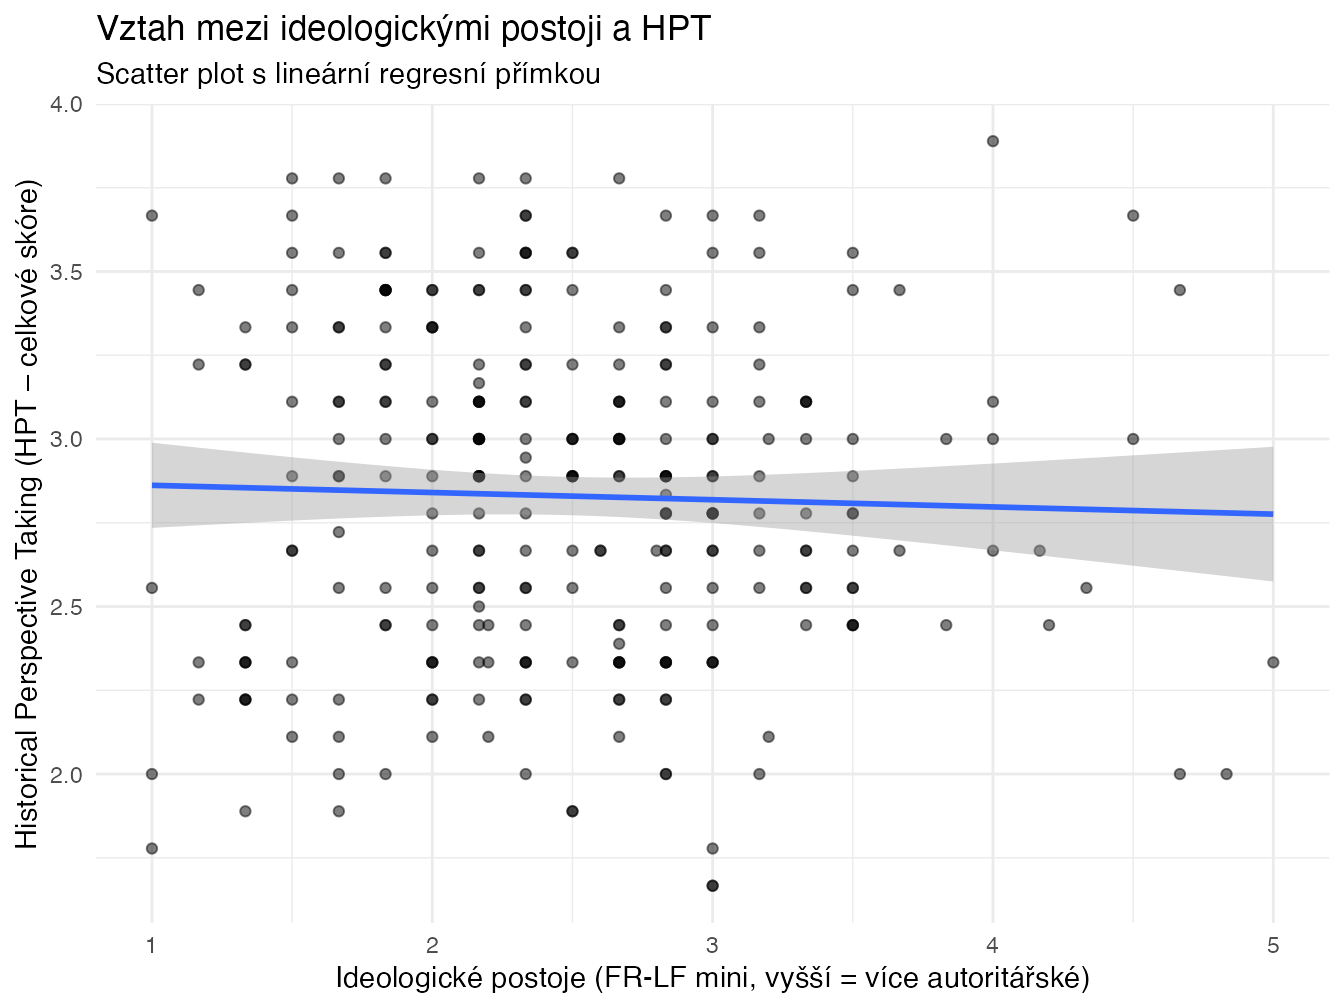
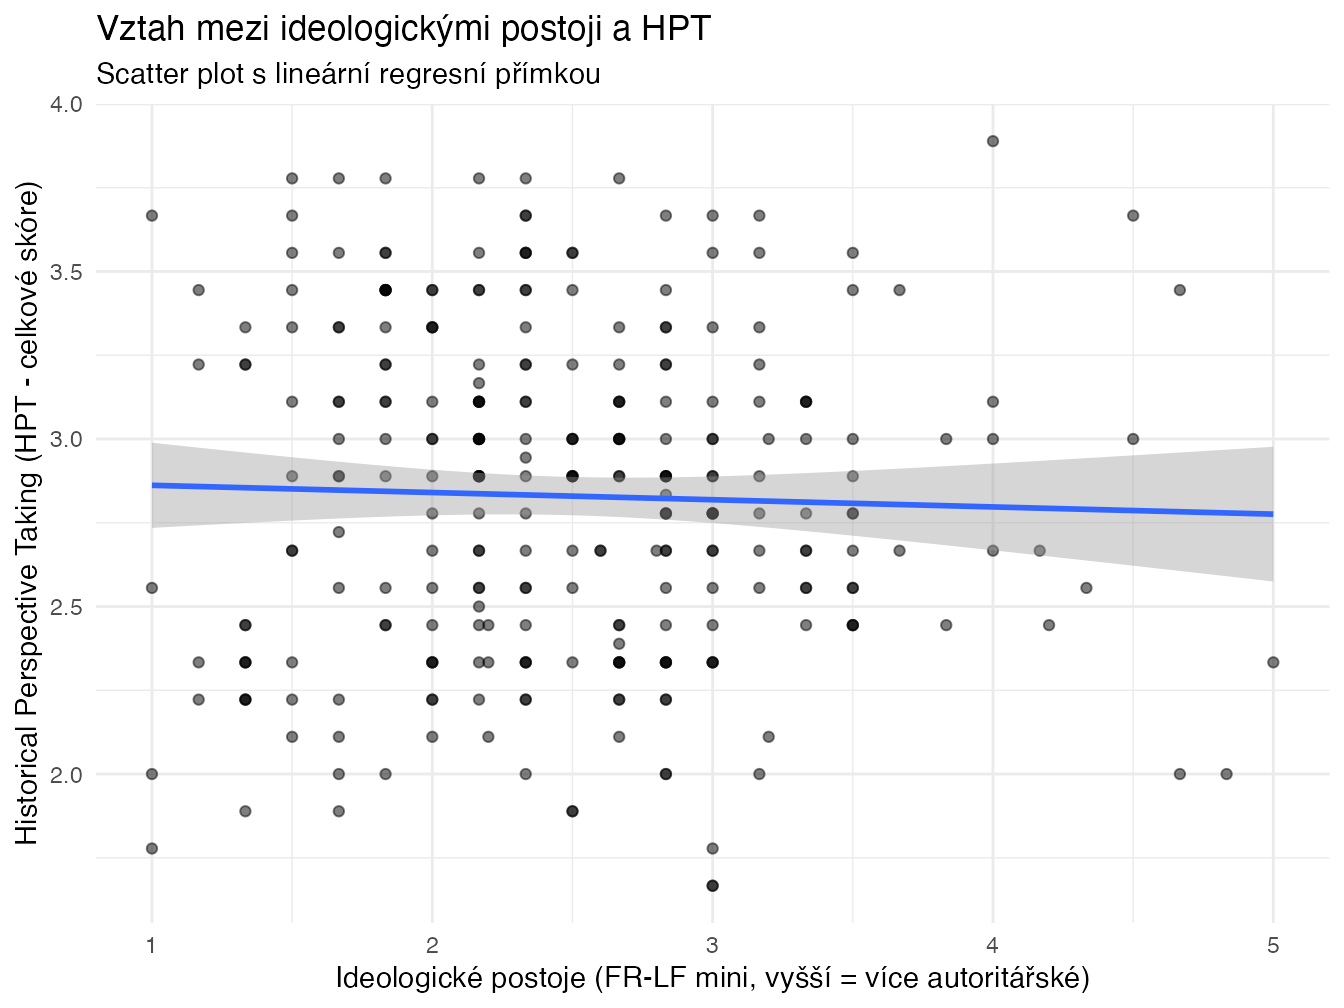
yetty published a site update

Changed region(s): [[0.0, 0.3998, 0.0312, 0.8304], [0.0, 0.1845, 0.0312, 0.369]]

diff --git a/hpt-a-extremismus.html b/hpt-a-extremismus.html
@@ -160,19 +160,19 @@ div.csl-indent {
 <h1><span class="header-section-number">1</span> HPT a extremismus<a href="hpt-a-extremismus.html#hpt-a-extremismus" class="anchor-section" aria-label="Anchor link to header"></a></h1>
 <p>Existující modely historického myšlení pracují s konceptem tzv. dobových perspektiv (<em>historical perspectives</em>). Projekt Dějepis+ je rámoval otázkou <em>“Jak lépe porozumět lidem, kteří žili v minulosti?”</em> <span class="citation">(<a href="#ref-Cinatl2021Metodika"><span class="nocase">Činátl et al.</span>, 2021, p. 10</a>)</span>. Jak ale, že žákům se porozumět lidem v minulosti daří?</p>
 <p>Jedním z nástrojů, který se o to pokouší, je tzv. Historical Perspective Taking (HPT) dotazník <span class="citation">(<a href="#ref-Hartmann_Hasselhorn2008Historical">Hartmann &amp; Hasselhorn, 2008</a>)</span>. Má solidní empirické podložení a úspěšně ho adaptovaly i další výzkumy <span class="citation">(<a href="#ref-Huijgen_et_al2014Testing">Huijgen et al., 2014</a>, <a href="#ref-Huijgen_et_al2017Toward">2016</a>)</span>.</p>
-<p>Zdá se mi ale, že má jeden zásadní nedostatek – nijak nezohledňuje současné perspektivy žáků. Jinými slovy: žák, který dosáhne lepšího výsledku v HPT, nemusí ve skutečnosti vykazovat lepší porozumění lidem v minulosti. Může výsledku dosáhnout proto, že nepřejímá implicitní předpoklad současné perspektivy HPT – tedy že současná perspektiva všech žáků je <em>“nacismus byl špatný”</em>.</p>
+<p>Zdá se mi ale, že má jeden zásadní nedostatek - nijak nezohledňuje současné perspektivy žáků. Jinými slovy: žák, který dosáhne lepšího výsledku v HPT, nemusí ve skutečnosti vykazovat lepší porozumění lidem v minulosti. Může výsledku dosáhnout proto, že nepřejímá implicitní předpoklad současné perspektivy HPT - tedy že současná perspektiva všech žáků je <em>“nacismus byl špatný”</em>.</p>
 <p>Jak výsledky ovlivňují právě názory (a perspektiva) žáka, bych chtěl ověřit následujícím výzkumem.</p>
 <div id="plánovaný-výzkum" class="section level2 hasAnchor" number="1.1">
 <h2><span class="header-section-number">1.1</span> Plánovaný výzkum<a href="hpt-a-extremismus.html#pl%C3%A1novan%C3%BD-v%C3%BDzkum" class="anchor-section" aria-label="Anchor link to header"></a></h2>
 <div id="plán-a-cíle-výzkumu" class="section level3 hasAnchor" number="1.1.1">
 <h3><span class="header-section-number">1.1.1</span> Plán a cíle výzkumu<a href="hpt-a-extremismus.html#pl%C3%A1n-a-c%C3%ADle-v%C3%BDzkumu" class="anchor-section" aria-label="Anchor link to header"></a></h3>
-<p><strong>Hlavní cíl:</strong> Ověřit, jestli a jak moc mohou dnešní postoje žáků (příklon k autoritarismu, normalizace nacismu) ovlivnit výsledky ve validovaném nástroji na měření historických perspektiv – tedy budit dojem dobrého historického myšlení jen proto, že jejich názory souzní s názory tehdejších aktérů.</p>
+<p><strong>Hlavní cíl:</strong> Ověřit, jestli a jak moc mohou dnešní postoje žáků (příklon k autoritarismu, normalizace nacismu) ovlivnit výsledky ve validovaném nástroji na měření historických perspektiv - tedy budit dojem dobrého historického myšlení jen proto, že jejich názory souzní s názory tehdejších aktérů.</p>
 <p>Kromě toho by výzkum měl čéskym učitelům přispět</p>
 <ul>
 <li>ověřeným českým překladem HPT dotazníku;</li>
 <li>ověřeným nástroje pro ověření současných perspektiv žáků (FR-LF, KSA-3, SDR-5)</li>
 </ul>
-<p>Tyto nástroje by měly učitelům pomoci lépe diagnostikovat, jak na tom jejich žáci jsou jak se schopností zaujmout dobové perspektivy, tak ohledně příklonu k různým autoritářským postojům – a v konečném důsledku tedy pomoci lépe přizpůsobit výuku moderních a soudobých dějin potřebám konkrétní třídy.</p>
+<p>Tyto nástroje by měly učitelům pomoci lépe diagnostikovat, jak na tom jejich žáci jsou jak se schopností zaujmout dobové perspektivy, tak ohledně příklonu k různým autoritářským postojům - a v konečném důsledku tedy pomoci lépe přizpůsobit výuku moderních a soudobých dějin potřebám konkrétní třídy.</p>
 <div id="jak-to-bude-prakticky-probíhat" class="section level4 hasAnchor" number="1.1.1.1">
 <h4><span class="header-section-number">1.1.1.1</span> Jak to bude prakticky probíhat<a href="hpt-a-extremismus.html#jak-to-bude-prakticky-prob%C3%ADhat" class="anchor-section" aria-label="Anchor link to header"></a></h4>
 <p><strong>Kdo:</strong> 9. ročník ZŠ + všechny ročníky SŠ</p>
@@ -180,13 +180,13 @@ div.csl-indent {
 <p><strong>Jednotlivé části:</strong></p>
 <ol style="list-style-type: decimal">
 <li><strong>Sběr základních údajů:</strong> dotazník je anonymní, žáci pouze zadají svou třídu, pohlaví a poslední známku z dějepisu.</li>
-<li><strong>Mini-test znalostí (6 položek)</strong> – pro zjištění vlivu znalostí na schopnost zaujmout dobové perspektivy. <span class="citation">(<a href="#ref-Huijgen_et_al2017Toward">Huijgen et al., 2016</a>)</span></li>
-<li><strong>Úkol na dobové perspektivy</strong> – český překlad ověřeného nástroje, který je postaven na fiktiní situaci z meziválečného Německa. <span class="citation">(<a href="#ref-Hartmann_Hasselhorn2008Historical">Hartmann &amp; Hasselhorn, 2008</a>)</span></li>
-<li><strong>Krátký anonymní dotazník postojů</strong> – obsahuje náhodně seřazené položky tří nástrojů:
+<li><strong>Mini-test znalostí (6 položek)</strong> - pro zjištění vlivu znalostí na schopnost zaujmout dobové perspektivy. <span class="citation">(<a href="#ref-Huijgen_et_al2017Toward">Huijgen et al., 2016</a>)</span></li>
+<li><strong>Úkol na dobové perspektivy</strong> - český překlad ověřeného nástroje, který je postaven na fiktiní situaci z meziválečného Německa. <span class="citation">(<a href="#ref-Hartmann_Hasselhorn2008Historical">Hartmann &amp; Hasselhorn, 2008</a>)</span></li>
+<li><strong>Krátký anonymní dotazník postojů</strong> - obsahuje náhodně seřazené položky tří nástrojů:
 <ul>
 <li>FR-LF (mini verze o 6 položkách) - měří postoje k autoritářské vládě a zlehčování nacismu <span class="citation">(<a href="#ref-Decker_et_al2013Rechtsextremismus">Decker et al., 2013</a>)</span></li>
-<li>KSA-3 – měří ultra-pravicovou názorovou orientaci <span class="citation">(<a href="#ref-Beierlein_et_al2014Die_Kurzskala">Beierlein et al., 2014</a>; <a href="#ref-Nie%C3%9Fen_et_al2019An_English">Nießen et al., 2019</a>)</span></li>
-<li>SDR-5 – měří sociální žádoucnost, tedy jak moc ovlivňuje odpovědi žáků to, aby vypadali dobře <span class="citation">(<a href="#ref-Hays_et_al1989A_Five">Hays et al., 1989</a>)</span></li>
+<li>KSA-3 - měří ultra-pravicovou názorovou orientaci <span class="citation">(<a href="#ref-Beierlein_et_al2014Die_Kurzskala">Beierlein et al., 2014</a>; <a href="#ref-Nie%C3%9Fen_et_al2019An_English">Nießen et al., 2019</a>)</span></li>
+<li>SDR-5 - měří sociální žádoucnost, tedy jak moc ovlivňuje odpovědi žáků to, aby vypadali dobře <span class="citation">(<a href="#ref-Hays_et_al1989A_Five">Hays et al., 1989</a>)</span></li>
 </ul></li>
 </ol>
 <p><strong>Co bude dělat učitel?</strong></p>
@@ -196,7 +196,7 @@ div.csl-indent {
 </ul>
 <p><strong>Etika a bezpečí</strong></p>
 <ul>
-<li>Účast je <strong>dobrovolná a anonymní</strong>, žák může vyplňování odmítnout – nenuťte ho, prosím</li>
+<li>Účast je <strong>dobrovolná a anonymní</strong>, žák může vyplňování odmítnout - nenuťte ho, prosím</li>
 <li>Pokud by některé otázky vyvolaly reakci žáků, doporučuji zařadit krátký bezpečný prostor pro reflexi a sdilení</li>
 </ul>
 </div>
@@ -219,34 +219,34 @@ div.csl-indent {
 </div>
 <div id="předpokládaná-zjištění" class="section level3 hasAnchor" number="1.1.2">
 <h3><span class="header-section-number">1.1.2</span> Předpokládaná zjištění<a href="hpt-a-extremismus.html#p%C5%99edpokl%C3%A1dan%C3%A1-zji%C5%A1t%C4%9Bn%C3%AD" class="anchor-section" aria-label="Anchor link to header"></a></h3>
-<div id="scénář-a-potvrzení-vlivu-postojů-žáka" class="section level4 hasAnchor" number="1.1.2.1">
-<h4><span class="header-section-number">1.1.2.1</span> Scénář A – potvrzení vlivu postojů žáka<a href="hpt-a-extremismus.html#sc%C3%A9n%C3%A1%C5%99-a-potvrzen%C3%AD-vlivu-postoj%C5%AF-%C5%BE%C3%A1ka" class="anchor-section" aria-label="Anchor link to header"></a></h4>
+<div id="scénář-a---potvrzení-vlivu-postojů-žáka" class="section level4 hasAnchor" number="1.1.2.1">
+<h4><span class="header-section-number">1.1.2.1</span> Scénář A - potvrzení vlivu postojů žáka<a href="hpt-a-extremismus.html#sc%C3%A9n%C3%A1%C5%99-a---potvrzen%C3%AD-vlivu-postoj%C5%AF-%C5%BE%C3%A1ka" class="anchor-section" aria-label="Anchor link to header"></a></h4>
 <p>Pracovní hypotéza je, že příklon žáka k extremistickým postojům může kontaminovat výsledky testu na schopnost zaujmout dobové perspektivy. Pokud se to potvrdí, bude to pro nás:</p>
 <ol style="list-style-type: decimal">
 <li>signál, že při výuce dějepisu je důležité s postoji žáka pracovat a vědomě je reflektovat, protože mohou ovlivnit nejen jeho přemýšlení o minulosti, ale i to, jak jeho výstupy působí skrytě na učitele;</li>
 <li>solidní základ pro přemýslení o tom, jak konstruovat ověřování schopnosti zaujmout dobové perspektivy, které by nebylo náchylné na ovlivnění postoji žáka.</li>
 </ol>
 </div>
-<div id="scénář-b-vliv-postojů-žáka-se-neprokáže" class="section level4 hasAnchor" number="1.1.2.2">
-<h4><span class="header-section-number">1.1.2.2</span> Scénář B – vliv postojů žáka se neprokáže<a href="hpt-a-extremismus.html#sc%C3%A9n%C3%A1%C5%99-b-vliv-postoj%C5%AF-%C5%BE%C3%A1ka-se-neprok%C3%A1%C5%BEe" class="anchor-section" aria-label="Anchor link to header"></a></h4>
-<p>Pokud se hypotéza vlivu postojů žáka na výsledky neprokáže, bude to trochu zklamání a překvapení. Nicméně i to bude cenné zjištění – a hlavně, zůstane nám validovaný a funkční nástroj, pomocí kterého bude možné schopnost žáků zaujmout dobovou perspektivu ověřovat.</p>
+<div id="scénář-b---vliv-postojů-žáka-se-neprokáže" class="section level4 hasAnchor" number="1.1.2.2">
+<h4><span class="header-section-number">1.1.2.2</span> Scénář B - vliv postojů žáka se neprokáže<a href="hpt-a-extremismus.html#sc%C3%A9n%C3%A1%C5%99-b---vliv-postoj%C5%AF-%C5%BE%C3%A1ka-se-neprok%C3%A1%C5%BEe" class="anchor-section" aria-label="Anchor link to header"></a></h4>
+<p>Pokud se hypotéza vlivu postojů žáka na výsledky neprokáže, bude to trochu zklamání a překvapení. Nicméně i to bude cenné zjištění - a hlavně, zůstane nám validovaný a funkční nástroj, pomocí kterého bude možné schopnost žáků zaujmout dobovou perspektivu ověřovat.</p>
 </div>
 <div id="faq-pro-učitele" class="section level4 hasAnchor" number="1.1.2.3">
 <h4><span class="header-section-number">1.1.2.3</span> FAQ pro učitele<a href="hpt-a-extremismus.html#faq-pro-u%C4%8Ditele" class="anchor-section" aria-label="Anchor link to header"></a></h4>
-<p><strong>Není to politický průzkum?</strong> – Ne. Nezajímají mne přímo politické postoje žáků, ale to, jak mohou ovlivnit (kontaminovat) ověřování schopnosti zaujmout dobovou prespektivu.</p>
-<p><strong>Proč se pracuje s “fiktivní” situací bez primárního pramene?</strong> – Autoři původního nástroje HPT vycházeli z předpokladu, že při použití primárního pramene by výsledky mohla do velké míry ovlivnit schopnost žáků číst dobový pramen.</p>
-<p><strong>Můžu úlohy a dotazníky nějak připomínkovat?</strong> – Rozhodně! Pokud máte návrh na vylepšení překladu nebo formulace, napište mi na <a href="mailto:[email redacted]">[email redacted]</a>. Zároveň ale platí, že se snažím být věrný originálu – takže vylepšení, které se budou příliš vzdalovat od původní verze, sice ocením a poznamenám si, ale spíše nebudu moci začlenit.</p>
+<p><strong>Není to politický průzkum?</strong> - Ne. Nezajímají mne přímo politické postoje žáků, ale to, jak mohou ovlivnit (kontaminovat) ověřování schopnosti zaujmout dobovou prespektivu.</p>
+<p><strong>Proč se pracuje s “fiktivní” situací bez primárního pramene?</strong> - Autoři původního nástroje HPT vycházeli z předpokladu, že při použití primárního pramene by výsledky mohla do velké míry ovlivnit schopnost žáků číst dobový pramen.</p>
+<p><strong>Můžu úlohy a dotazníky nějak připomínkovat?</strong> - Rozhodně! Pokud máte návrh na vylepšení překladu nebo formulace, napište mi na <a href="mailto:[email redacted]">[email redacted]</a>. Zároveň ale platí, že se snažím být věrný originálu - takže vylepšení, které se budou příliš vzdalovat od původní verze, sice ocením a poznamenám si, ale spíše nebudu moci začlenit.</p>
 </div>
 </div>
 </div>
 <div id="výsledky-výzkumu" class="section level2 hasAnchor" number="1.2">
 <h2><span class="header-section-number">1.2</span> Výsledky výzkumu<a href="hpt-a-extremismus.html#v%C3%BDsledky-v%C3%BDzkumu" class="anchor-section" aria-label="Anchor link to header"></a></h2>
 <p>V dějepise se často snažíme žákům pomoci porozumět lidem v minulosti v jejich dobovém kontextu, nikoli je hodnotit dnešníma očima. Tuto schopnost se výzkumně snaží zachytit test Historical Perspective Taking (HPT). Jenže…</p>
-<div id="pythbox" class="redbox" title="Jaká byla otázka?">
+<div class="redbox" title="Jaká byla otázka?">
 <p>Nemůže žák dosáhnout dobrého výsledku v testu dobových perspektiv spíše proto, že jeho <strong>současné postoje souzní s postoji historických aktérů</strong>, než proto, že skutečně dobře historicky uvažuje?</p>
 </div>
-<p>Konkrétně: nemohou zda autoritářské nebo pro-nacistické postoje „vylepšit“ výsledek v úloze zaměřené na porozumění meziválečnému Německu?</p>
-<div id="pythbox" class="greenbox" title="Co jsme zjistili? (shrnutí)">
+<p>Konkrétně: nemohou zda autoritářské nebo pro-nacistické postoje „vylepšit” výsledek v úloze zaměřené na porozumění meziválečnému Německu?</p>
+<div class="greenbox" title="Co jsme zjistili? (shrnutí)">
 <p><strong>Ne, předpoklad, že žáci s autoritářskými postoji dosáhnou lepších výsledků v HPT testu, se nepotvrdil.</strong> Korelace mezi postoji a výsledky v HPT byla velmi slabá až nulová. To znamená, že výsledky v HPT testu nejsou kontaminovány současnými postoji žáků. Dobrá zpráva pro učitele dějepisu - výsledky v HPT testu skutečně odrážejí schopnost žáků zaujmout dobové perspektivy, nikoliv jejich současné názory. <strong>Můžete ho tedy bez obav používat jako nástroj pro diagnostiku historického myšlení vašich žáků.</strong></p>
 </div>
 <div id="jak-výzkum-probíhal" class="section level3 hasAnchor" number="1.2.1">
@@ -567,7 +567,7 @@ KN
 <tfoot>
 <tr>
 <td style="padding: 0; " colspan="100%">
-<sup></sup> Pozn.: POP* = absence presentistického (populistického) uvažování; ROA = role aktéra; CONT = kontextualizace. FR-LF mini je průměr RD1–RD3 a NS1–NS3. KN = mini test znalostí. Korelace jsou pouze deskriptivní (bez korekce na shlukování ve třídách).
+<sup></sup> Pozn.: POP* = absence presentistického (populistického) uvažování; ROA = role aktéra; CONT = kontextualizace. FR-LF mini je průměr RD1-RD3 a NS1-NS3. KN = mini test znalostí. Korelace jsou pouze deskriptivní (bez korekce na shlukování ve třídách).
 </td>
 </tr>
 </tfoot>

diff --git a/judovo-overovani-historickeho-mysleni.tex b/judovo-overovani-historickeho-mysleni.tex
@@ -493,7 +493,7 @@ Existující modely historického myšlení pracují s konceptem tzv. dobových 
 
 Jedním z nástrojů, který se o to pokouší, je tzv. Historical Perspective Taking (HPT) dotazník \autocite{Hartmann_Hasselhorn2008Historical}. Má solidní empirické podložení a úspěšně ho adaptovaly i další výzkumy \autocite{Huijgen_et_al2014Testing,Huijgen_et_al2017Toward}.
 
-Zdá se mi ale, že má jeden zásadní nedostatek -- nijak nezohledňuje současné perspektivy žáků. Jinými slovy: žák, který dosáhne lepšího výsledku v HPT, nemusí ve skutečnosti vykazovat lepší porozumění lidem v minulosti. Může výsledku dosáhnout proto, že nepřejímá implicitní předpoklad současné perspektivy HPT -- tedy že současná perspektiva všech žáků je \emph{\enquote{nacismus byl špatný}}.
+Zdá se mi ale, že má jeden zásadní nedostatek - nijak nezohledňuje současné perspektivy žáků. Jinými slovy: žák, který dosáhne lepšího výsledku v HPT, nemusí ve skutečnosti vykazovat lepší porozumění lidem v minulosti. Může výsledku dosáhnout proto, že nepřejímá implicitní předpoklad současné perspektivy HPT - tedy že současná perspektiva všech žáků je \emph{\enquote{nacismus byl špatný}}.
 
 Jak výsledky ovlivňují právě názory (a perspektiva) žáka, bych chtěl ověřit následujícím výzkumem.
 
@@ -501,7 +501,7 @@ Jak výsledky ovlivňují právě názory (a perspektiva) žáka, bych chtěl ov
 
 \subsection{Plán a cíle výzkumu}\label{pluxe1n-a-cuxedle-vuxfdzkumu}
 
-\textbf{Hlavní cíl:} Ověřit, jestli a jak moc mohou dnešní postoje žáků (příklon k autoritarismu, normalizace nacismu) ovlivnit výsledky ve validovaném nástroji na měření historických perspektiv -- tedy budit dojem dobrého historického myšlení jen proto, že jejich názory souzní s názory tehdejších aktérů.
+\textbf{Hlavní cíl:} Ověřit, jestli a jak moc mohou dnešní postoje žáků (příklon k autoritarismu, normalizace nacismu) ovlivnit výsledky ve validovaném nástroji na měření historických perspektiv - tedy budit dojem dobrého historického myšlení jen proto, že jejich názory souzní s názory tehdejších aktérů.
 
 Kromě toho by výzkum měl čéskym učitelům přispět
 
@@ -513,7 +513,7 @@ Kromě toho by výzkum měl čéskym učitelům přispět
   ověřeným nástroje pro ověření současných perspektiv žáků (FR-LF, KSA-3, SDR-5)
 \end{itemize}
 
-Tyto nástroje by měly učitelům pomoci lépe diagnostikovat, jak na tom jejich žáci jsou jak se schopností zaujmout dobové perspektivy, tak ohledně příklonu k různým autoritářským postojům -- a v konečném důsledku tedy pomoci lépe přizpůsobit výuku moderních a soudobých dějin potřebám konkrétní třídy.
+Tyto nástroje by měly učitelům pomoci lépe diagnostikovat, jak na tom jejich žáci jsou jak se schopností zaujmout dobové perspektivy, tak ohledně příklonu k různým autoritářským postojům - a v konečném důsledku tedy pomoci lépe přizpůsobit výuku moderních a soudobých dějin potřebám konkrétní třídy.
 
 \subsubsection{Jak to bude prakticky probíhat}\label{jak-to-bude-prakticky-probuxedhat}
 
@@ -529,20 +529,20 @@ Tyto nástroje by měly učitelům pomoci lépe diagnostikovat, jak na tom jejic
 \item
   \textbf{Sběr základních údajů:} dotazník je anonymní, žáci pouze zadají svou třídu, pohlaví a poslední známku z dějepisu.
 \item
-  \textbf{Mini-test znalostí (6 položek)} -- pro zjištění vlivu znalostí na schopnost zaujmout dobové perspektivy. \autocite{Huijgen_et_al2017Toward}
+  \textbf{Mini-test znalostí (6 položek)} - pro zjištění vlivu znalostí na schopnost zaujmout dobové perspektivy. \autocite{Huijgen_et_al2017Toward}
 \item
-  \textbf{Úkol na dobové perspektivy} -- český překlad ověřeného nástroje, který je postaven na fiktiní situaci z meziválečného Německa. \autocite{Hartmann_Hasselhorn2008Historical}
+  \textbf{Úkol na dobové perspektivy} - český překlad ověřeného nástroje, který je postaven na fiktiní situaci z meziválečného Německa. \autocite{Hartmann_Hasselhorn2008Historical}
 \item
-  \textbf{Krátký anonymní dotazník postojů} -- obsahuje náhodně seřazené položky tří nástrojů:
+  \textbf{Krátký anonymní dotazník postojů} - obsahuje náhodně seřazené položky tří nástrojů:
 
   \begin{itemize}
   \tightlist
   \item
     FR-LF (mini verze o 6 položkách) - měří postoje k autoritářské vládě a zlehčování nacismu \autocite{Decker_et_al2013Rechtsextremismus}
   \item
-    KSA-3 -- měří ultra-pravicovou názorovou orientaci \autocite{Beierlein_et_al2014Die_Kurzskala,Nießen_et_al2019An_English}
+    KSA-3 - měří ultra-pravicovou názorovou orientaci \autocite{Beierlein_et_al2014Die_Kurzskala,Nießen_et_al2019An_English}
   \item
-    SDR-5 -- měří sociální žádoucnost, tedy jak moc ovlivňuje odpovědi žáků to, aby vypadali dobře \autocite{Hays_et_al1989A_Five}
+    SDR-5 - měří sociální žádoucnost, tedy jak moc ovlivňuje odpovědi žáků to, aby vypadali dobře \autocite{Hays_et_al1989A_Five}
   \end{itemize}
 \end{enumerate}
 
@@ -561,7 +561,7 @@ Tyto nástroje by měly učitelům pomoci lépe diagnostikovat, jak na tom jejic
 \begin{itemize}
 \tightlist
 \item
-  Účast je \textbf{dobrovolná a anonymní}, žák může vyplňování odmítnout -- nenuťte ho, prosím
+  Účast je \textbf{dobrovolná a anonymní}, žák může vyplňování odmítnout - nenuťte ho, prosím
 \item
   Pokud by některé otázky vyvolaly reakci žáků, doporučuji zařadit krátký bezpečný prostor pro reflexi a sdilení
 \end{itemize}
@@ -597,7 +597,7 @@ Tyto nástroje by měly učitelům pomoci lépe diagnostikovat, jak na tom jejic
 
 \subsection{Předpokládaná zjištění}\label{pux159edpokluxe1danuxe1-zjiux161tux11bnuxed}
 
-\subsubsection{Scénář A -- potvrzení vlivu postojů žáka}\label{scuxe9nuxe1ux159-a-potvrzenuxed-vlivu-postojux16f-ux17euxe1ka}
+\subsubsection{Scénář A - potvrzení vlivu postojů žáka}\label{scuxe9nuxe1ux159-a---potvrzenuxed-vlivu-postojux16f-ux17euxe1ka}
 
 Pracovní hypotéza je, že příklon žáka k extremistickým postojům může kontaminovat výsledky testu na schopnost zaujmout dobové perspektivy. Pokud se to potvrdí, bude to pro nás:
 
@@ -610,28 +610,26 @@ Pracovní hypotéza je, že příklon žáka k extremistickým postojům může 
   solidní základ pro přemýslení o tom, jak konstruovat ověřování schopnosti zaujmout dobové perspektivy, které by nebylo náchylné na ovlivnění postoji žáka.
 \end{enumerate}
 
-\subsubsection{Scénář B -- vliv postojů žáka se neprokáže}\label{scuxe9nuxe1ux159-b-vliv-postojux16f-ux17euxe1ka-se-neprokuxe1ux17ee}
+\subsubsection{Scénář B - vliv postojů žáka se neprokáže}\label{scuxe9nuxe1ux159-b---vliv-postojux16f-ux17euxe1ka-se-neprokuxe1ux17ee}
 
-Pokud se hypotéza vlivu postojů žáka na výsledky neprokáže, bude to trochu zklamání a překvapení. Nicméně i to bude cenné zjištění -- a hlavně, zůstane nám validovaný a funkční nástroj, pomocí kterého bude možné schopnost žáků zaujmout dobovou perspektivu ověřovat.
+Pokud se hypotéza vlivu postojů žáka na výsledky neprokáže, bude to trochu zklamání a překvapení. Nicméně i to bude cenné zjištění - a hlavně, zůstane nám validovaný a funkční nástroj, pomocí kterého bude možné schopnost žáků zaujmout dobovou perspektivu ověřovat.
 
 \subsubsection{FAQ pro učitele}\label{faq-pro-uux10ditele}
 
-\textbf{Není to politický průzkum?} -- Ne. Nezajímají mne přímo politické postoje žáků, ale to, jak mohou ovlivnit (kontaminovat) ověřování schopnosti zaujmout dobovou prespektivu.
+\textbf{Není to politický průzkum?} - Ne. Nezajímají mne přímo politické postoje žáků, ale to, jak mohou ovlivnit (kontaminovat) ověřování schopnosti zaujmout dobovou prespektivu.
 
-\textbf{Proč se pracuje s \enquote{fiktivní} situací bez primárního pramene?} -- Autoři původního nástroje HPT vycházeli z předpokladu, že při použití primárního pramene by výsledky mohla do velké míry ovlivnit schopnost žáků číst dobový pramen.
+\textbf{Proč se pracuje s \enquote{fiktivní} situací bez primárního pramene?} - Autoři původního nástroje HPT vycházeli z předpokladu, že při použití primárního pramene by výsledky mohla do velké míry ovlivnit schopnost žáků číst dobový pramen.
 
-\textbf{Můžu úlohy a dotazníky nějak připomínkovat?} -- Rozhodně! Pokud máte návrh na vylepšení překladu nebo formulace, napište mi na \href{mailto:[email redacted]}{\nolinkurl{[email redacted]}}. Zároveň ale platí, že se snažím být věrný originálu -- takže vylepšení, které se budou příliš vzdalovat od původní verze, sice ocením a poznamenám si, ale spíše nebudu moci začlenit.
+\textbf{Můžu úlohy a dotazníky nějak připomínkovat?} - Rozhodně! Pokud máte návrh na vylepšení překladu nebo formulace, napište mi na \href{mailto:[email redacted]}{\nolinkurl{[email redacted]}}. Zároveň ale platí, že se snažím být věrný originálu - takže vylepšení, které se budou příliš vzdalovat od původní verze, sice ocením a poznamenám si, ale spíše nebudu moci začlenit.
 
 \section{Výsledky výzkumu}\label{vuxfdsledky-vuxfdzkumu}
 
 V dějepise se často snažíme žákům pomoci porozumět lidem v minulosti v jejich dobovém kontextu, nikoli je hodnotit dnešníma očima. Tuto schopnost se výzkumně snaží zachytit test Historical Perspective Taking (HPT). Jenže\ldots{}
 
-\protect\phantomsection\label{pythbox}
 Nemůže žák dosáhnout dobrého výsledku v testu dobových perspektiv spíše proto, že jeho \textbf{současné postoje souzní s postoji historických aktérů}, než proto, že skutečně dobře historicky uvažuje?
 
-Konkrétně: nemohou zda autoritářské nebo pro-nacistické postoje „vylepšit`` výsledek v úloze zaměřené na porozumění meziválečnému Německu?
+Konkrétně: nemohou zda autoritářské nebo pro-nacistické postoje „vylepšit'' výsledek v úloze zaměřené na porozumění meziválečnému Německu?
 
-\protect\phantomsection\label{pythbox}
 \textbf{Ne, předpoklad, že žáci s autoritářskými postoji dosáhnou lepších výsledků v HPT testu, se nepotvrdil.} Korelace mezi postoji a výsledky v HPT byla velmi slabá až nulová. To znamená, že výsledky v HPT testu nejsou kontaminovány současnými postoji žáků. Dobrá zpráva pro učitele dějepisu - výsledky v HPT testu skutečně odrážejí schopnost žáků zaujmout dobové perspektivy, nikoliv jejich současné názory. \textbf{Můžete ho tedy bez obav používat jako nástroj pro diagnostiku historického myšlení vašich žáků.}
 
 \subsection{Jak výzkum probíhal?}\label{jak-vuxfdzkum-probuxedhal}
@@ -757,7 +755,7 @@ FR-LF mini & -0.03 & -0.04 & -0.09 & 0.00 & 0.02 & 1.00 & -0.11\\
 \hline
 KN & 0.37 & 0.33 & 0.31 & 0.28 & 0.23 & -0.11 & 1.00\\
 \hline
-\multicolumn{8}{l}{\rule{0pt}{1em}Pozn.: POP* = absence presentistického (populistického) uvažování; ROA = role aktéra; CONT = kontextualizace. FR-LF mini je průměr RD1–RD3 a NS1–NS3. KN = mini test znalostí. Korelace jsou pouze deskriptivní (bez korekce na shlukování ve třídách).}\\
+\multicolumn{8}{l}{\rule{0pt}{1em}Pozn.: POP* = absence presentistického (populistického) uvažování; ROA = role aktéra; CONT = kontextualizace. FR-LF mini je průměr RD1-RD3 a NS1-NS3. KN = mini test znalostí. Korelace jsou pouze deskriptivní (bez korekce na shlukování ve třídách).}\\
 \end{longtable}
 
 \normalsize